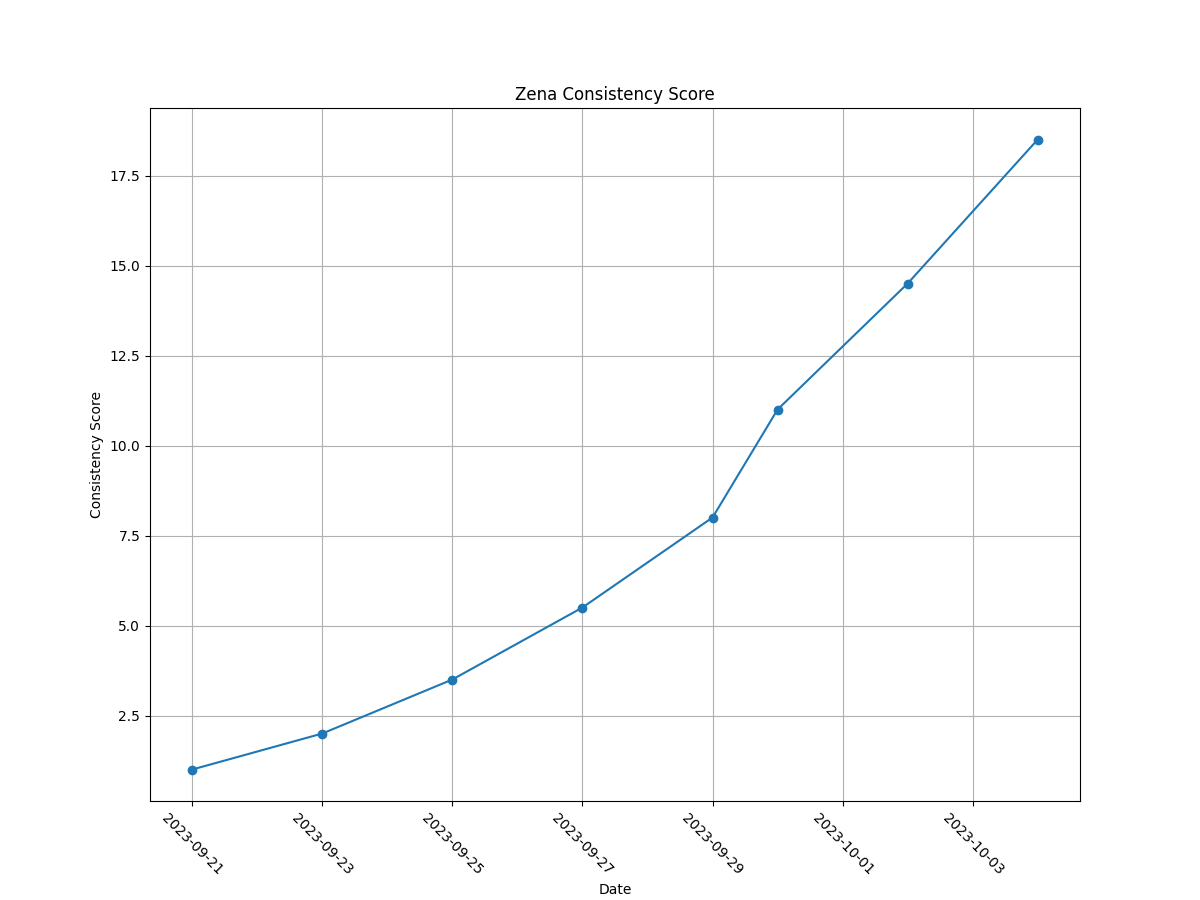
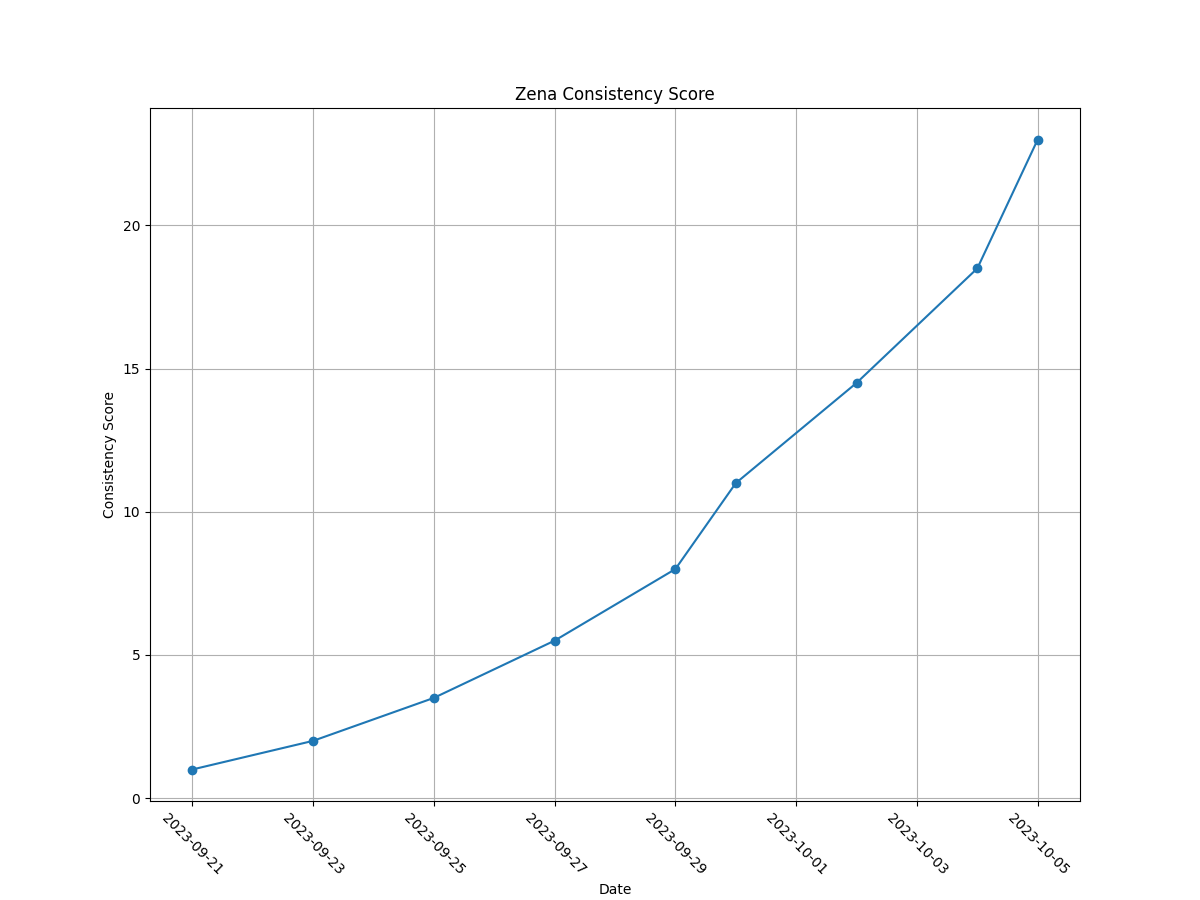
daily workout update

diff --git a/sota_data.py b/sota_data.py
@@ -8,7 +8,8 @@ SOTA_DATA = [
     {"date": "2023-09-27", "distance_miles": 2.67, "time_minutes": 30, "name": "Sota"},
     {"date": "2023-09-29", "distance_miles": 2.79, "time_minutes": 83, "name": "Sota"},
     {"date": "2023-10-01", "distance_miles": 1.62, "time_minutes": 56, "name": "Sota"},
-    {"date": "2023-10-02", "distance_miles": 2.49, "time_minutes": 30, "name": "Sota"}
+    {"date": "2023-10-02", "distance_miles": 2.49, "time_minutes": 30, "name": "Sota"},
+    {"date": "2023-10-04", "distance_miles": 2.12, "time_minutes": 30, "name": "Sota"}
 ]
 
 SOTA_CONSISTENCY_TUPLES = [(datum['time_minutes'], util.to_date(datum['date'])) for datum in SOTA_DATA]

diff --git a/zena_data.py b/zena_data.py
@@ -9,7 +9,8 @@ ZENA_DATA = [
     {"date": "2023-09-29", "distance_miles": 3.80, "time_minutes": 65, "name": "Zena"},
     {"date": "2023-09-30", "distance_miles": 3.94, "time_minutes": 65, "name": "Zena"},
     {"date": "2023-10-02", "distance_miles": 3.44, "time_minutes": 65, "name": "Zena"},
-    {"date": "2023-10-04", "distance_miles": 3.22, "time_minutes": 65, "name": "Zena"}
+    {"date": "2023-10-04", "distance_miles": 3.22, "time_minutes": 65, "name": "Zena"},
+    {"date": "2023-10-05", "distance_miles": 3.96, "time_minutes": 65, "name": "Zena"}
 ]
 
 ZENA_CONSISTENCY_TUPLES = [(datum['time_minutes'], util.to_date(datum['date'])) for datum in ZENA_DATA]
